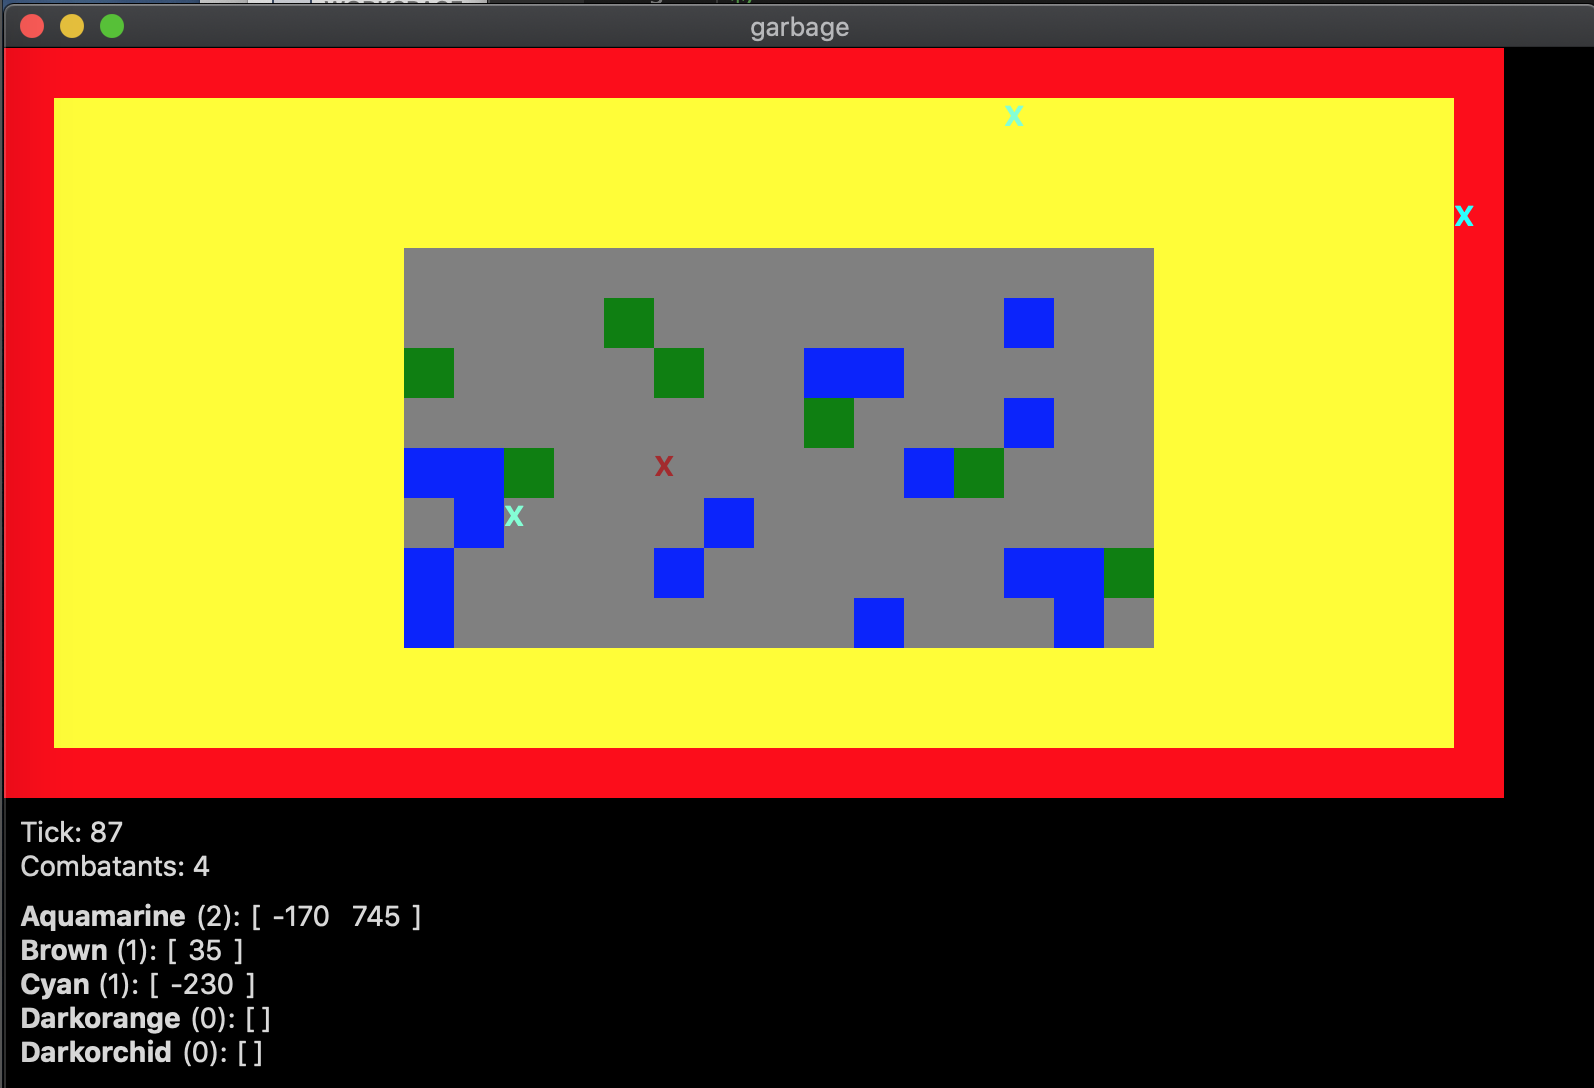
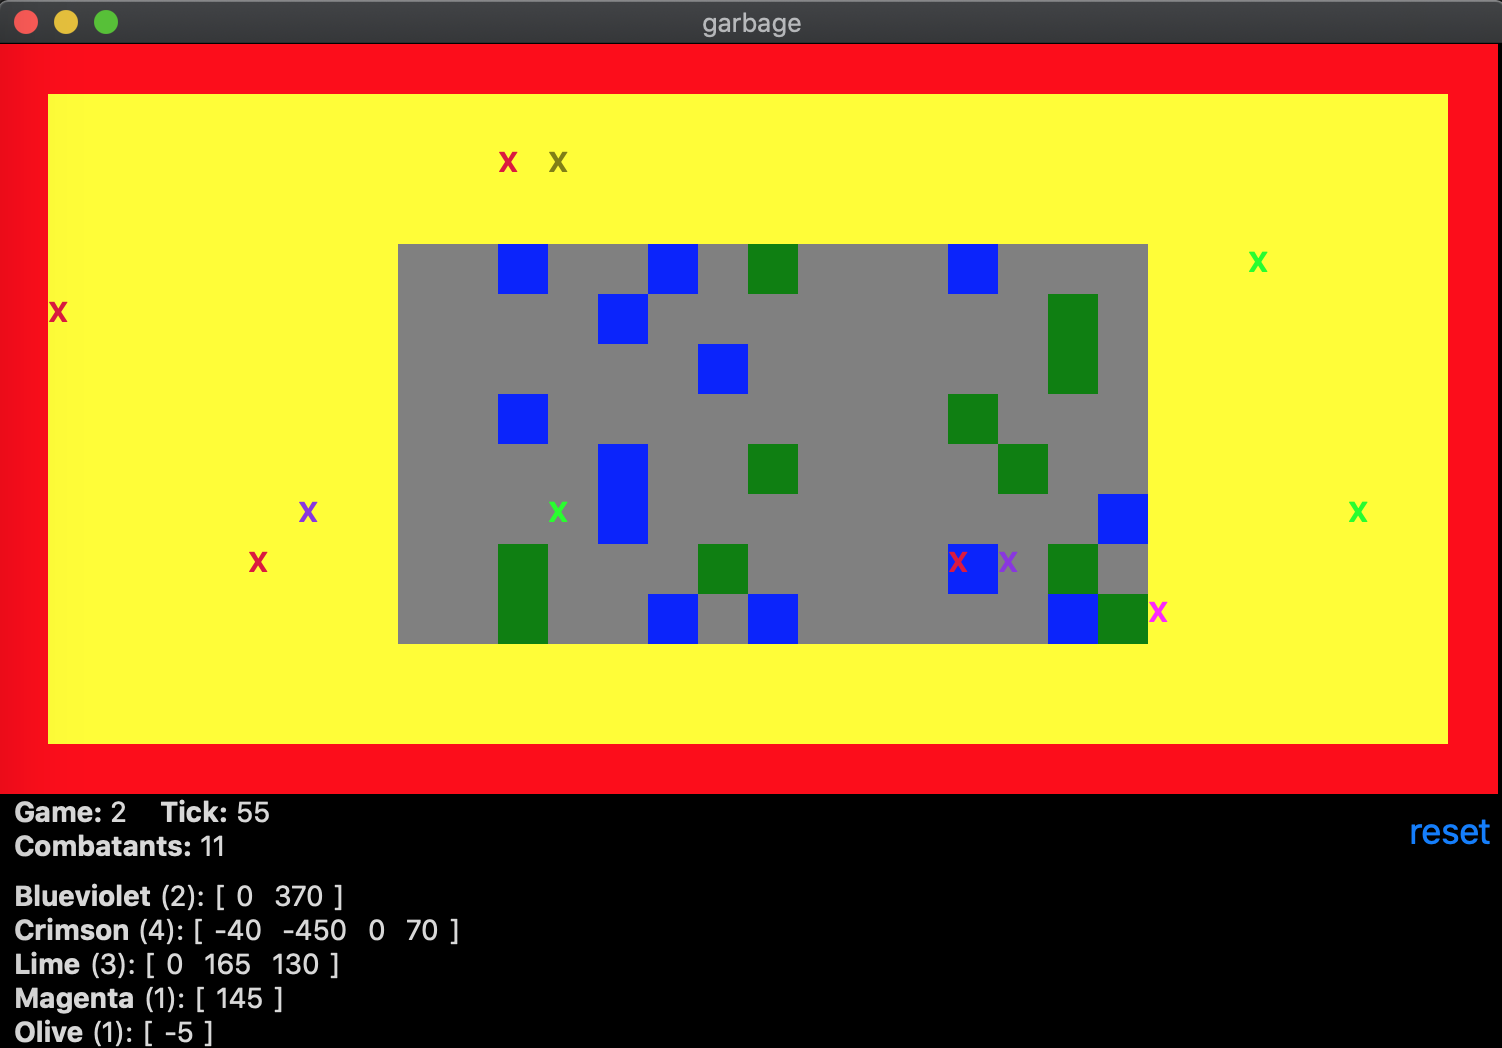
Adds game count and bolds data labels.

diff --git a/macos/components/Dashboard.js b/macos/components/Dashboard.js
@@ -20,7 +20,7 @@ const getColorStats = (combatants) => {
     const counts = Object.keys(colors).map(color => {
         return (
             <View key={color} style={styles.color_group}>
-                <Text style={styles.color_title}>{`${color}`}</Text><Text>{` (${colors[color].length}): `}</Text>
+                <Text style={styles.label}>{`${color}`}</Text><Text>{` (${colors[color].length}): `}</Text>
                 {colors[color].length < 1 ? 
                     (<Text>{"[ ]"}</Text>) : 
                     colors[color].map((c, idx, cs) => {
@@ -44,23 +44,25 @@ const getColorStats = (combatants) => {
     );
 };
 
-const Dashboard = ({combatants, tiles, tick, reset}) => {
+const Dashboard = ({combatants, tiles, tick, game_count, onReset}) => {
     const colorStats = getColorStats(combatants);
     return (
         <View style={styles.stats}>
             <View>
-                <Text style={styles.stat_group}>{`Tick: ${tick}`}</Text>
-                <Text>{`Combatants: ${Object.keys(combatants).length}`}</Text>
+                <View style={styles.row}>
+                    <View style={styles.row}>
+                        <Text style={styles.label}>{'Game: '}</Text>
+                        <Text>{game_count}</Text>
+                    </View>
+                    <View style={[styles.row, styles.count_item]}>
+                        <Text style={styles.label}>{'Tick: '}</Text>
+                        <Text>{tick}</Text>
+                    </View>
+                </View>
+                <View style={styles.row}><Text style={styles.label}>{`Combatants: `}</Text><Text>{`${Object.keys(combatants).length}`}</Text></View>
                 {colorStats}
-                <Text style={styles.stat_group}>{}</Text>
-                <Text style={styles.stat_group}>{}</Text>
-                <Text style={styles.stat_group}>{}</Text>
-                <Text>{}</Text>
-                <Text>{}</Text>
-                <Text>{}</Text>
-                <Text>{}</Text>
-                <Text>{}</Text>
             </View>
+            <Button title={"reset"} onPress={() => onReset()}/>
         </View>
     )
 };
@@ -69,6 +71,9 @@ const styles = StyleSheet.create({
     row: {
         display: "flex",
         flexDirection: "row",
+    },
+    count_item: {
+        paddingHorizontal: 16,
     },
     fitness: {
         paddingHorizontal: 5,
@@ -87,7 +92,7 @@ const styles = StyleSheet.create({
         display: "flex",
         flexDirection: "row",
     },
-    color_title: {
+    label: {
         fontWeight: "bold",
         textTransform: "capitalize",
     },

diff --git a/macos/components/arena.js b/macos/components/arena.js
@@ -359,8 +359,12 @@ const printCombatants = ({tick, combatants, window_height, window_width}) => {
 class Arena extends React.Component {
     constructor() {
         super();
+        this.state = this.getInitState();
+    }
 
+    getInitState() {
         const tick = 0;
+        const game_count = 1;
         const window_width = WINDOW_WIDTH;
         const window_height = WINDOW_HEIGHT;
         const num_combatants = NUM_COMBATANTS;
@@ -376,13 +380,21 @@ class Arena extends React.Component {
             };
         }
 
-        this.state = {
+        return {
             tick,
+            game_count,
             window_width,
             window_height,
             tiles,
-            combatants
+            combatants,
         }
+    }
+
+    reset = () => {
+        const game_count = this.state.game_count;
+        const new_state = this.getInitState(this.state);
+        new_state.game_count = game_count + 1;
+        this.setState(new_state);
     }
 
     tick() {
@@ -405,7 +417,7 @@ class Arena extends React.Component {
     
     componentWillUnmount() {
     clearInterval(this.interval);
-    }
+    } 
 
     render() {
     const rows = [];
@@ -440,6 +452,8 @@ class Arena extends React.Component {
                 combatants={this.state.combatants} 
                 tiles={this.state.tiles} 
                 tick={this.state.tick}
+                game_count={this.state.game_count}
+                onReset={this.reset}
             />
         </>
     );
